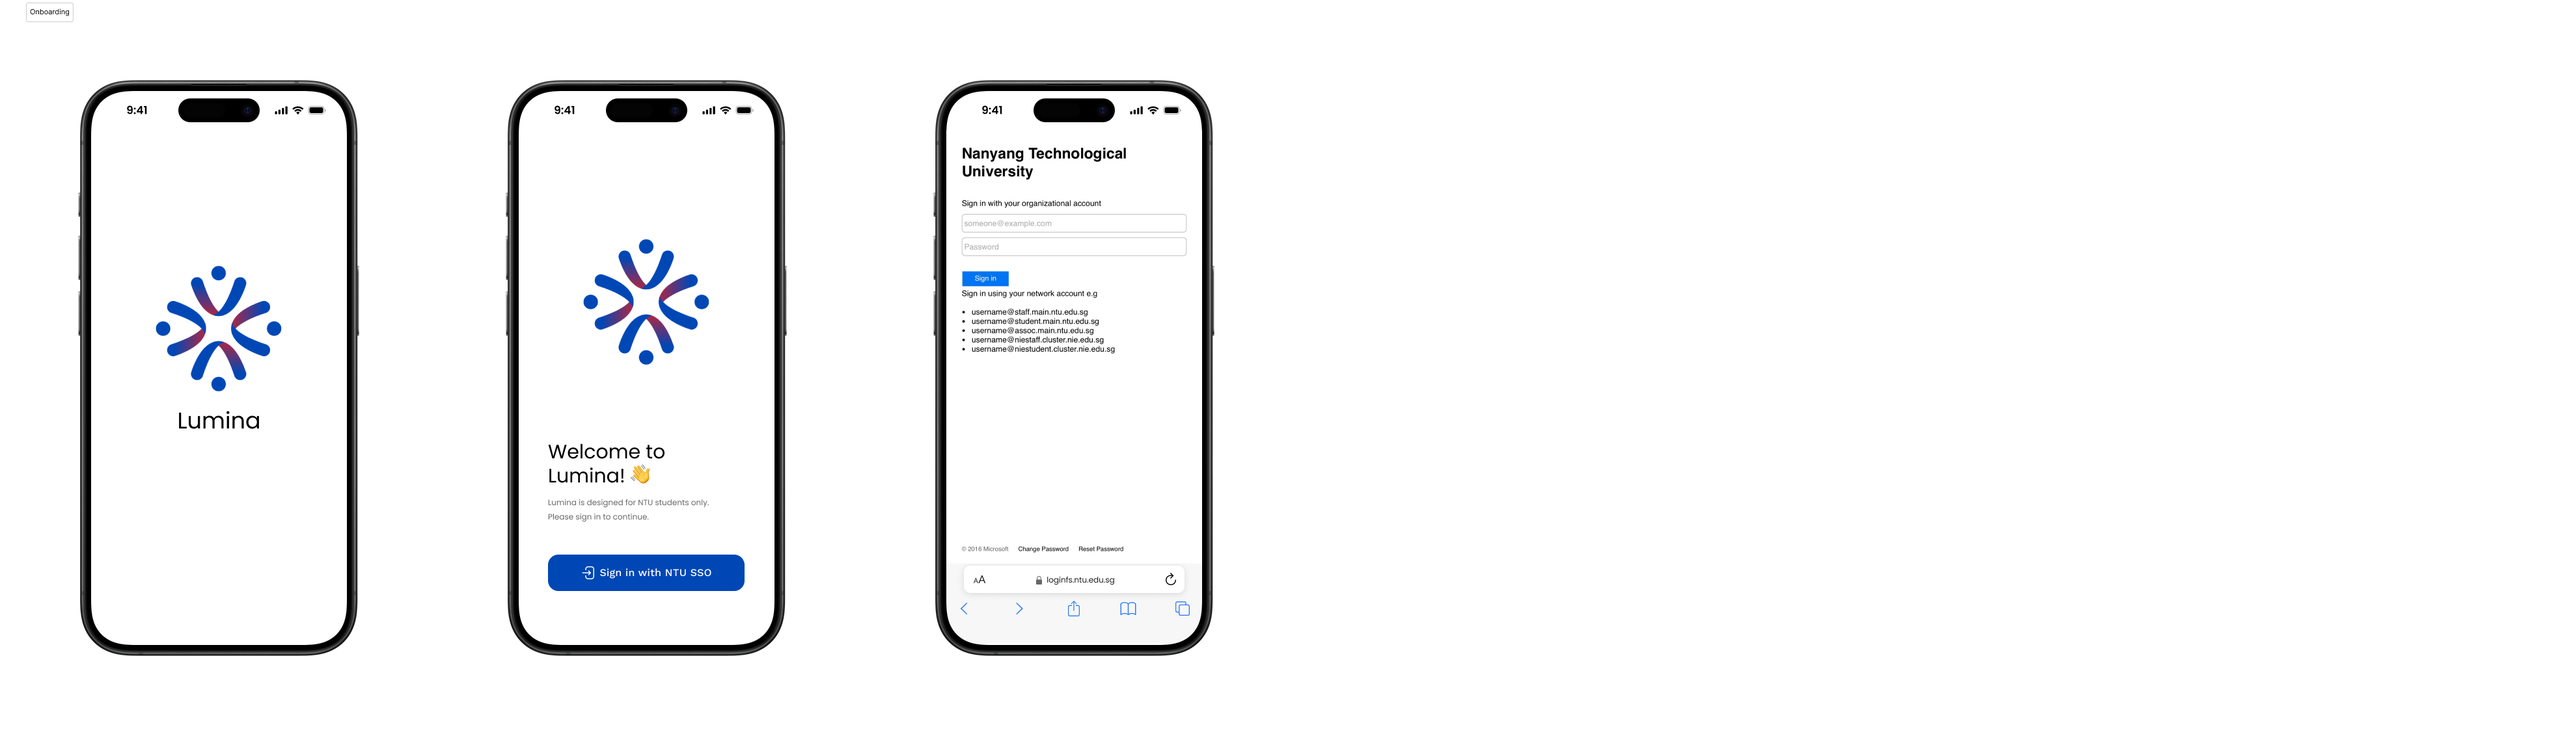
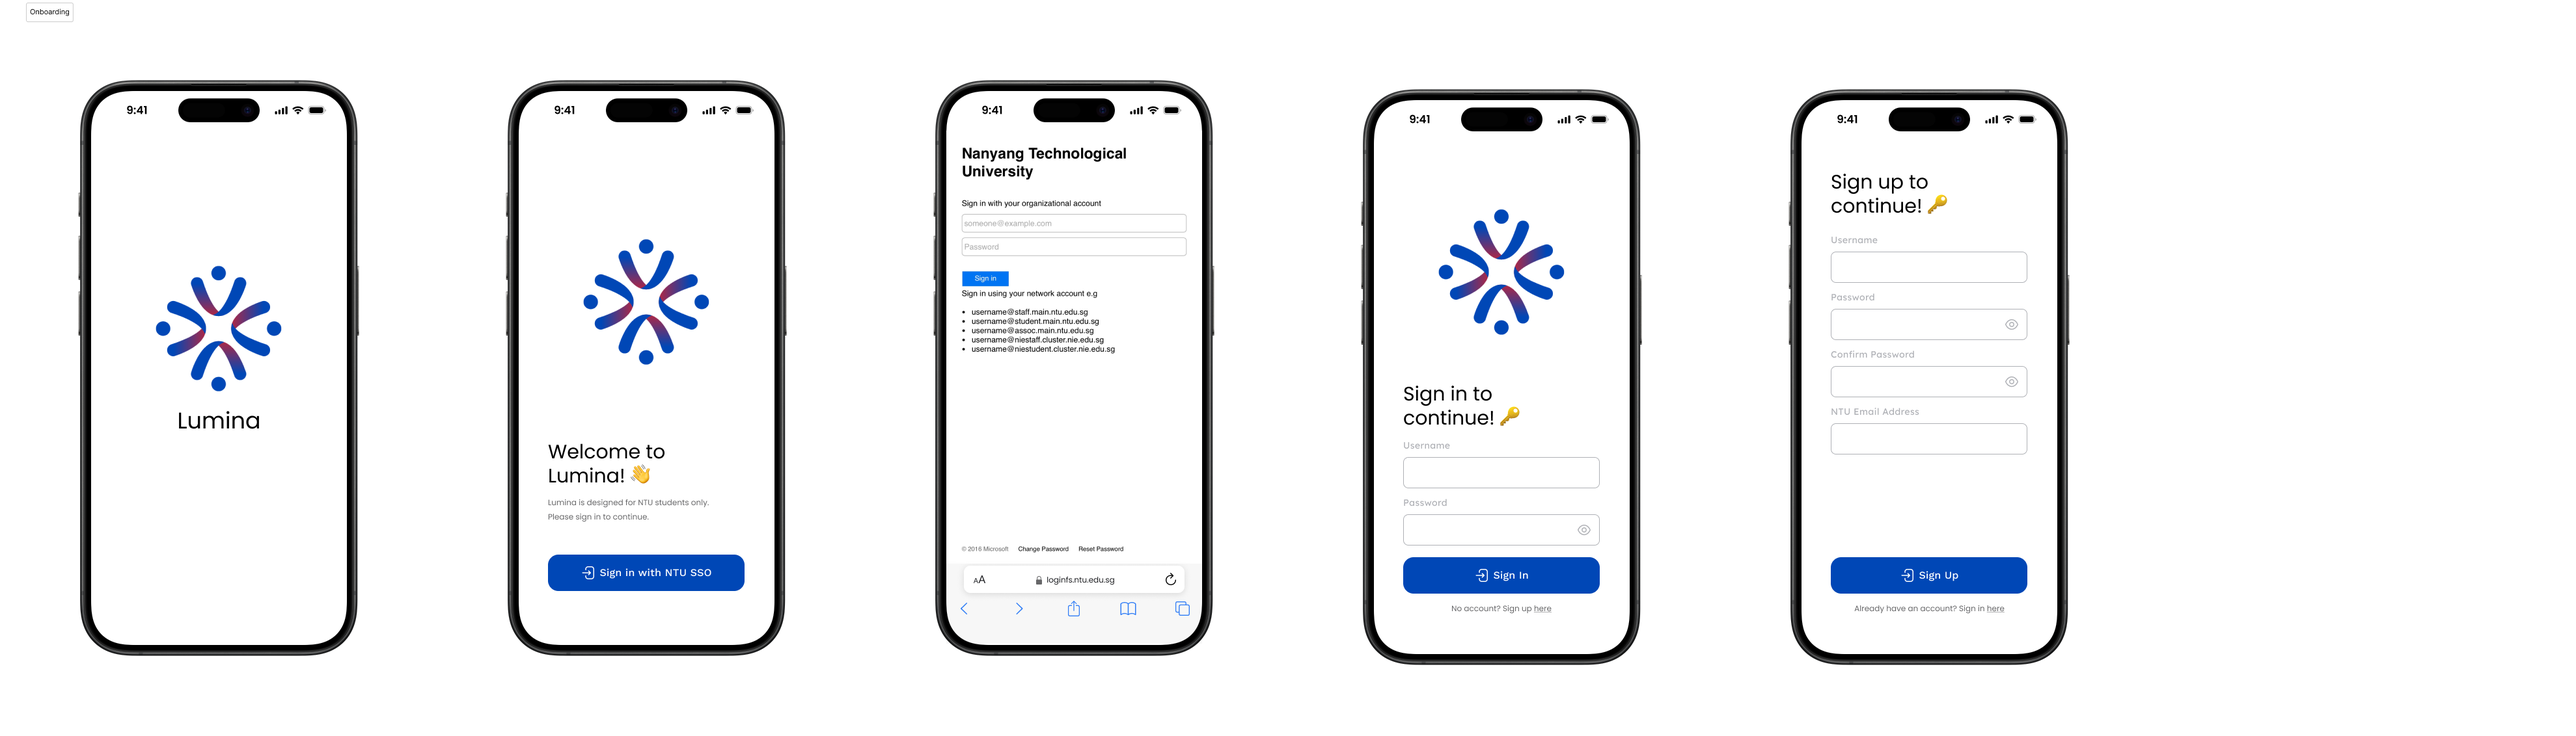
<feat> onboard page

Changed region(s): [[0.5283, 0.1237, 0.6526, 0.9276], [0.6837, 0.1237, 0.808, 0.9276]]

diff --git a/Lumina-Mobile/app/(auth)/sign-in.jsx b/Lumina-Mobile/app/(auth)/sign-in.jsx
@@ -1,18 +1,18 @@
-import { ScrollView, StatusBar, Text, View, Image, Button } from 'react-native'
+import { View, Text, ScrollView, Image } from 'react-native'
+import CustomButton from '../../components/CustomButton'
 import React from 'react'
-import { router } from 'expo-router'
 import { SafeAreaView } from 'react-native-safe-area-context'
-import CustomButton from '../components/CustomButton'
 import { Octicons } from '@expo/vector-icons';
+import FormField from '../../components/FormField';
 
 
-export default function App() {
+const SignIn = () => {
   return (
-    <SafeAreaView className="h-full">
+    <SafeAreaView className="h-full bg-white">
       <ScrollView contentContainerStyle={{height: '100%'}}>
-        <View className="w-full justify-center items-center h-[50%] px-4">
+        <View className="w-full justify-center items-center h-[40%] px-4">
           <Image
-            source={require('../assets/images/icon.png')}
+            source={require('../../assets/images/icon.png')}
             className="w-[230px] h-[295px]"
             resizeMode='contain'
           />
@@ -20,18 +20,17 @@ export default function App() {
         <View className="w-full p-12">
           <Text
           className="font-lregular text-custom-header w-[183px] mb-3">
-            Welcome to Lumina 👋!
-          </Text>
-          <Text className="font-llight text-custom-subheader text-subheader">
-            Lumina is designed for NTU students only. Please sign in to continue. 
+            Sign in to continue 🔑!
           </Text>
         </View>
         <View className="w-full justify-center items-center px-12">
+          <FormField
+          title="username"/>
           <CustomButton
-            title="Sign In / Sign Up"
+            title="Sign in"
             icon = {Octicons}
             iconProps={{ name: 'sign-in', size: 24, color: '#fff' }}
-            handlePress={() => router.push('/sign-in')}
+            handlePress={() => router.push('/conversation-history')}
             containerStyles = "w-full mt-7"
           />
         </View>
@@ -39,3 +38,5 @@ export default function App() {
     </SafeAreaView>
   )
 }
+
+export default SignIn

diff --git a/Lumina-Mobile/components/CustomButton.jsx b/Lumina-Mobile/components/CustomButton.jsx
@@ -1,0 +1,30 @@
+import {TouchableOpacity, Text, Image, View} from 'react-native'
+import React from 'react'
+import Icon from 'react-native-vector-icons/Octicons'
+
+const CustomButton = ({title, icon: IconComponent, iconProps, handlePress, containerStyles, textStyles, isLoading}) => {
+  return (
+    <TouchableOpacity 
+    onPress={handlePress}
+    activeOpacity={0.7}
+    className = {`bg-primaryButton rounded-xl min-h-[62px] justify-center items-center ${containerStyles} ${isLoading? 'opacity-50': ''}`}
+    disabled={isLoading}
+    >
+        <View className="flex-row">
+            {
+                IconComponent && (
+                    <IconComponent 
+                    {...iconProps}
+                    className="mr-2"
+                    />
+                )
+            }
+            <Text className={`font-lregular text-white text-custom-subheader ${textStyles}`}>
+                {title}
+            </Text>
+        </View>
+    </TouchableOpacity>
+  )
+}
+
+export default CustomButton

diff --git a/Lumina-Mobile/app/(auth)/_layout.jsx b/Lumina-Mobile/app/(auth)/_layout.jsx
@@ -1,15 +1,27 @@
 import { View, Text } from 'react-native'
 import React from 'react'
+import { Stack } from 'expo-router'
 
-// Auth Screens do not have nav bar! 
+// Auth Screens do not have nav bar, so it should have a different layout! 
 
 const AuthLayout = () => {
   return (
-    <View>
-      <Text>AuthLayout
-    
-      </Text>
-    </View>
+    <>
+      <Stack>
+        <Stack.Screen
+          name='sign-in'
+          options={{
+            headerShown: false
+          }}
+        />
+        <Stack.Screen
+          name='sign-up'
+          options={{
+            headerShown: false
+          }}
+        />
+      </Stack>
+    </>
   )
 }
 

diff --git a/Lumina-Mobile/tailwind.config.js b/Lumina-Mobile/tailwind.config.js
@@ -5,6 +5,9 @@ module.exports = {
     extend: {
       colors: {
         primaryButton: "#0047B6",
+        focusedNavigation: "#000000",
+        unfocusedNavigation: "#C1C1C1",
+        subheader: "#676769",
       },
       fontFamily: {
         lthin: ["Lexend-Thin", "sans-serif"],
@@ -16,6 +19,10 @@ module.exports = {
         lbold: ["Lexend-Bold", "sans-serif"],
         lextrabold: ["Lexend-ExtraBold", "sans-serif"],
         lblack: ["Lexend-Black", "sans-serif"],
+      },
+      fontSize: {
+        "custom-header": "38px",
+        "custom-subheader": "18px",
       },
     },
   },

diff --git a/Lumina-Mobile/app/_layout.jsx b/Lumina-Mobile/app/_layout.jsx
@@ -3,7 +3,6 @@ import React, { useEffect } from 'react'
 import { Slot, SplashScreen } from 'expo-router'
 import { useFonts } from 'expo-font'
 
-
 SplashScreen.preventAutoHideAsync(); // prevent splash screen from auto hiding before asset loading is complete.
 
 const RootLayout = () => {
@@ -27,10 +26,8 @@ const RootLayout = () => {
 
   return (
     <>
-        <Text>Header</Text>
         {/* Slot returns the current child.  */}
         <Slot/>
-        <Text>Footer</Text>
     </>
   )
 }

diff --git a/Lumina-Mobile/app/(tabs)/_layout.jsx b/Lumina-Mobile/app/(tabs)/_layout.jsx
@@ -1,0 +1,21 @@
+import { View, Text } from 'react-native'
+import React from 'react'
+import { Tabs, Redirect } from 'expo-router'
+
+const TabsLayout = () => {
+  return (
+    <>
+        <Tabs>
+            <Tabs.Screen
+                name="conversation-history"
+                options={{
+                    header: 'History',
+                    headerShown: true,
+                }}
+            />
+        </Tabs>
+    </>
+  )
+}
+
+export default TabsLayout

diff --git a/Lumina-Mobile/app/(auth)/sign-up.jsx b/Lumina-Mobile/app/(auth)/sign-up.jsx
@@ -1,0 +1,17 @@
+import { View, Text, ScrollView } from 'react-native'
+import React from 'react'
+import { SafeAreaView } from 'react-native-safe-area-context'
+
+const SignUp = () => {
+  return (
+    <SafeAreaView className="h-full">
+      <ScrollView>
+        <View className="w-full justify-center min-h-[85vh] px-4 my-6">
+          <Text>Sign up</Text>
+        </View>
+      </ScrollView>
+    </SafeAreaView>
+  )
+}
+
+export default SignUp

diff --git a/Lumina-Mobile/components/FormField.jsx b/Lumina-Mobile/components/FormField.jsx
@@ -1,0 +1,12 @@
+import { View, Text } from 'react-native'
+import React from 'react'
+
+const FormField = () => {
+  return (
+    <View className="space-y-2">
+      <Text className="text-base text-gray-100 font-lregular">FormField</Text>
+    </View>
+  )
+}
+
+export default FormField

diff --git a/Lumina-Mobile/app/(tabs)/conversation-history.jsx b/Lumina-Mobile/app/(tabs)/conversation-history.jsx
@@ -1,0 +1,12 @@
+import { View, Text } from 'react-native'
+import React from 'react'
+
+const ConversationHistory = () => {
+  return (
+    <View>
+      <Text>ConversationHistory</Text>
+    </View>
+  )
+}
+
+export default ConversationHistory

diff --git a/Lumina-Mobile/app/(tabs)/new-conversation.jsx b/Lumina-Mobile/app/(tabs)/new-conversation.jsx
@@ -1,0 +1,12 @@
+import { View, Text } from 'react-native'
+import React from 'react'
+
+const NewConversation = () => {
+  return (
+    <View>
+      <Text>NewConversation</Text>
+    </View>
+  )
+}
+
+export default NewConversation

diff --git a/Lumina-Mobile/app/plugin-detail/[plugin-name].jsx b/Lumina-Mobile/app/plugin-detail/[plugin-name].jsx
@@ -1,0 +1,12 @@
+import { View, Text } from 'react-native'
+import React from 'react'
+
+const PluginDetail = () => {
+  return (
+    <View>
+      <Text>PluginDetail</Text>
+    </View>
+  )
+}
+
+export default PluginDetail

diff --git a/Lumina-Mobile/app/(tabs)/plugin-store.jsx b/Lumina-Mobile/app/(tabs)/plugin-store.jsx
@@ -1,0 +1,12 @@
+import { View, Text } from 'react-native'
+import React from 'react'
+
+const PluginStore = () => {
+  return (
+    <View>
+      <Text>PluginStore</Text>
+    </View>
+  )
+}
+
+export default PluginStore
